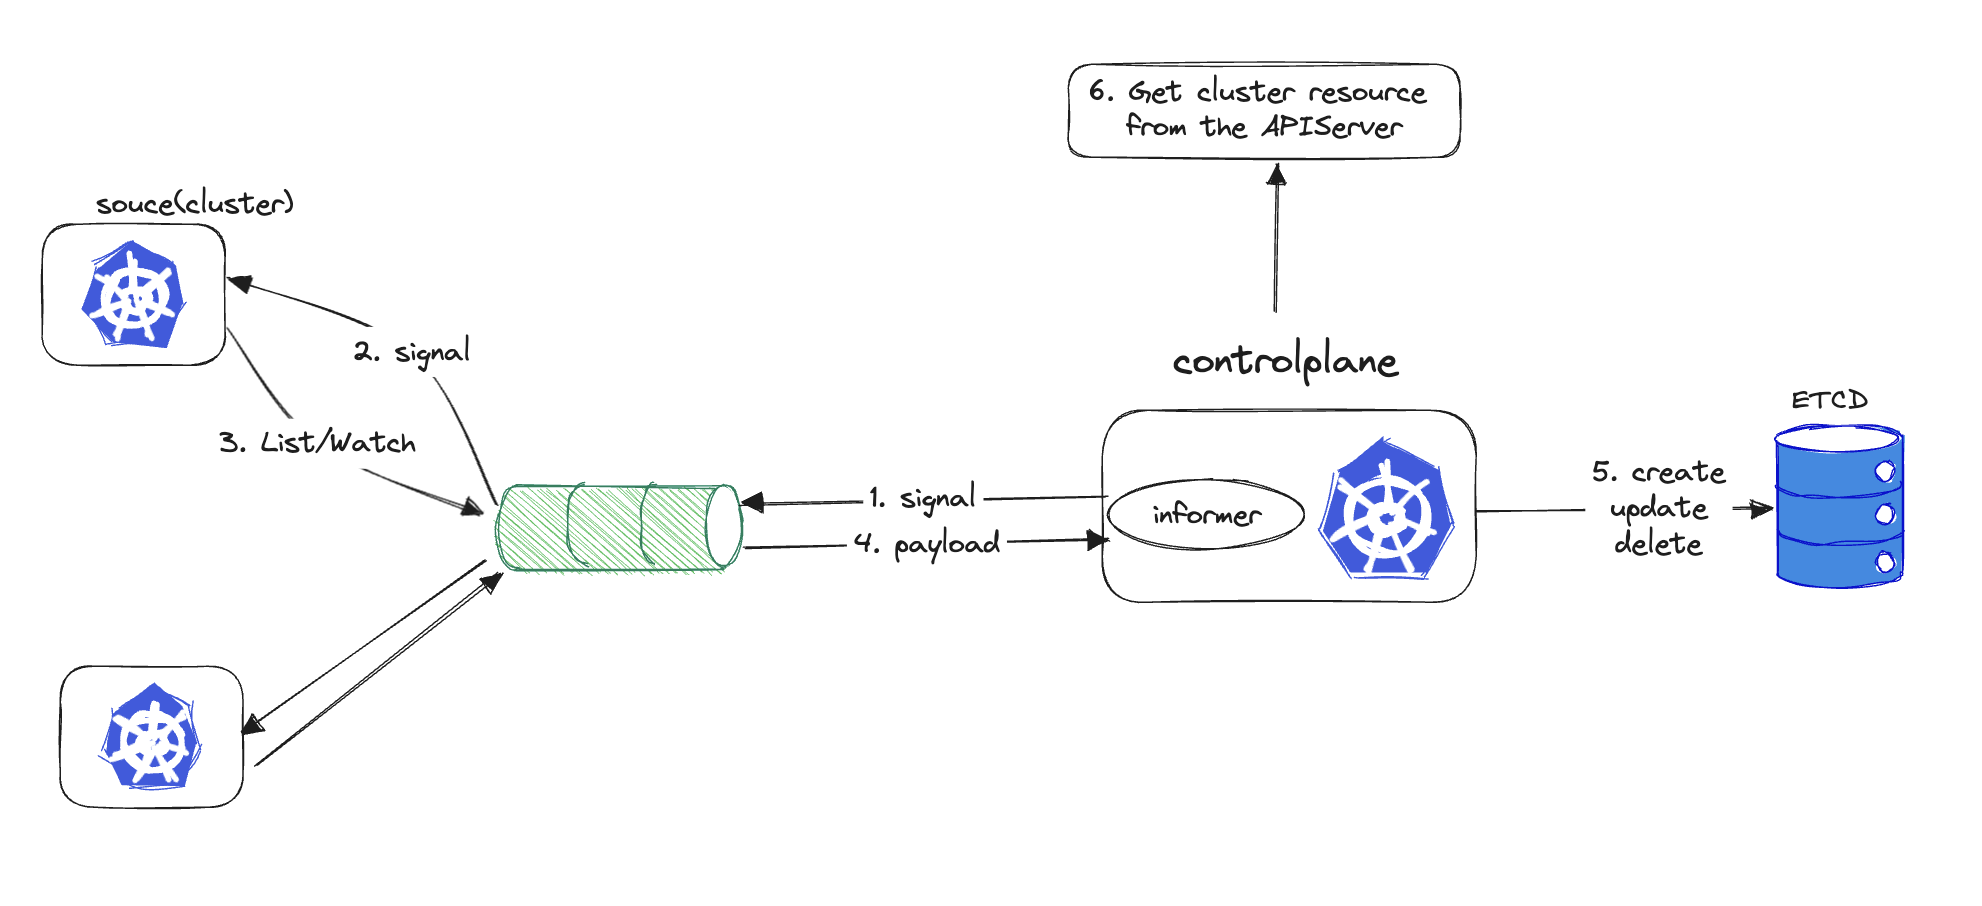
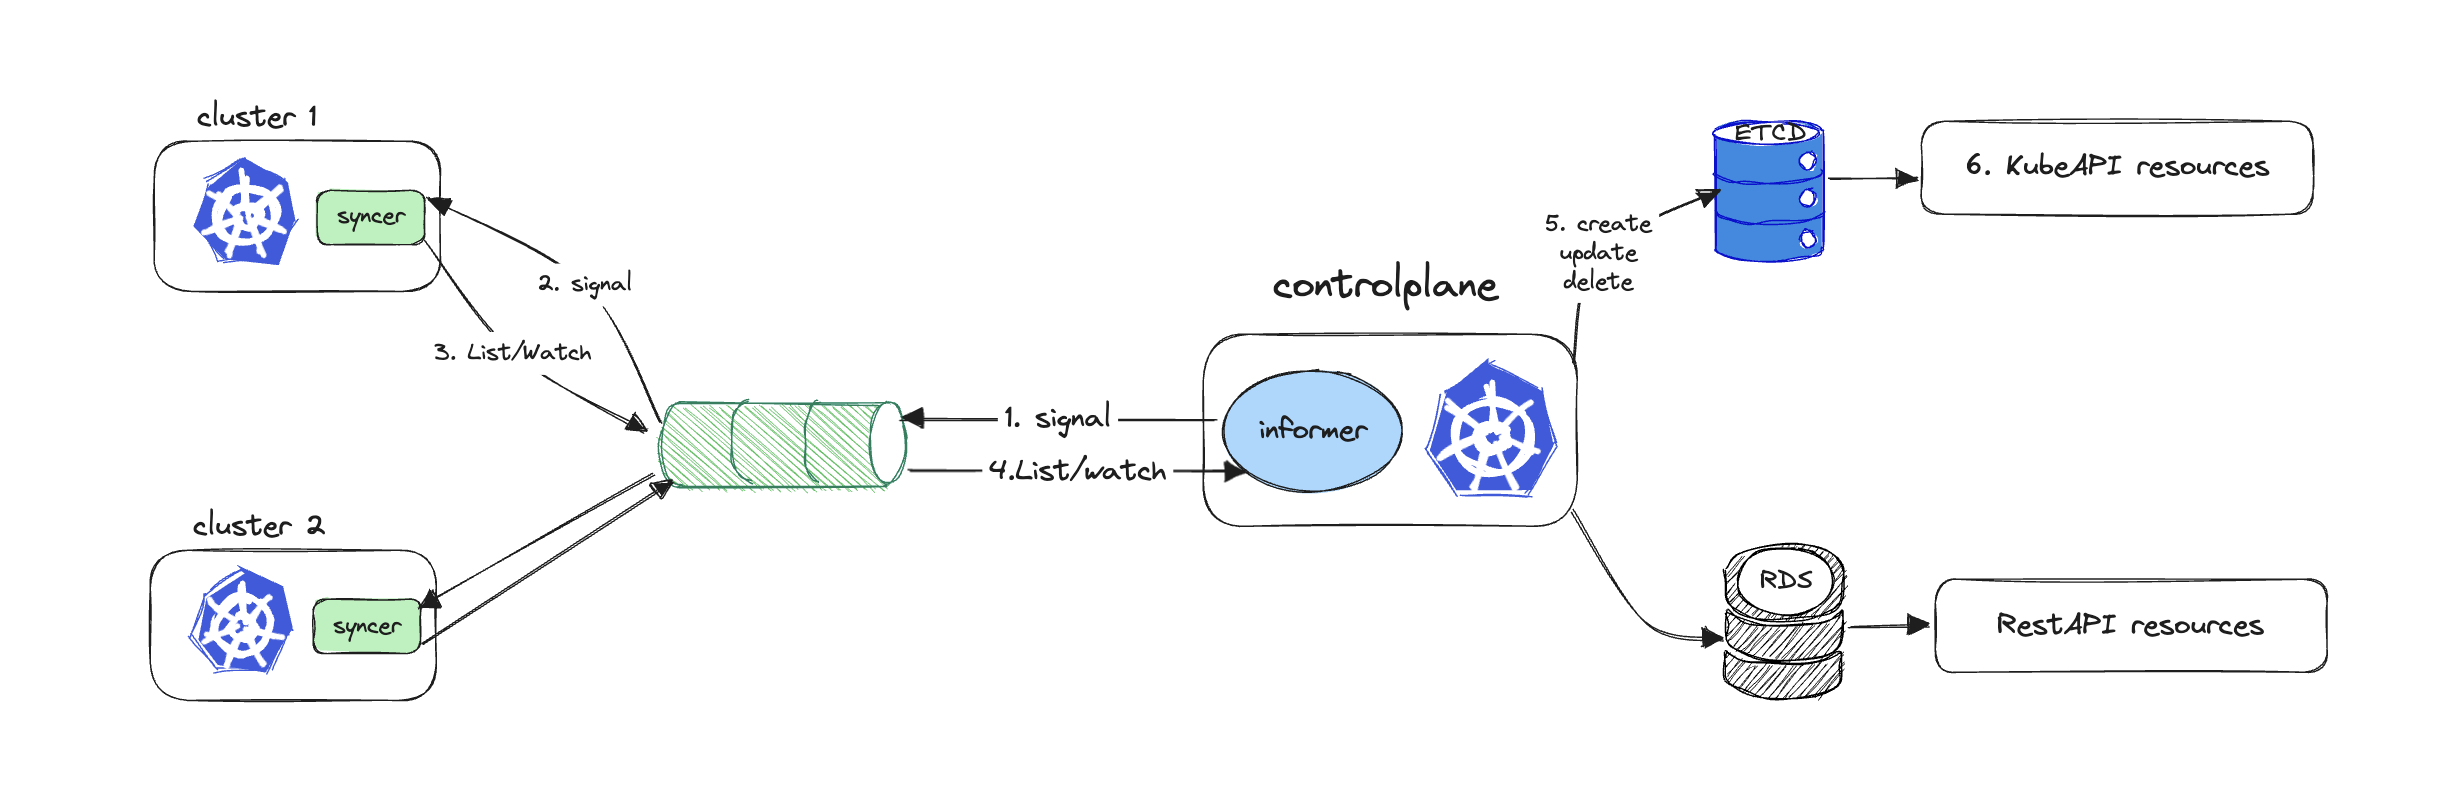
add syncer cluster name

diff --git a/pkg/config/config.go b/pkg/config/config.go
@@ -22,6 +22,7 @@ type ClientConfig struct {
 	Retained     bool
 	SignalTopic  string
 	PayloadTopic string
+	ClusterName  string
 }
 
 type TLSConfig struct {
@@ -53,6 +54,7 @@ func GetClientConfig() *ClientConfig {
 	flag.StringVarP(&clientConfig.ClientID, "client-id", "", "sender", "the client id for the MQTT")
 	flag.StringVarP(&clientConfig.SignalTopic, "signal-topic", "", "", "the topic for list/watch signal")
 	flag.StringVarP(&clientConfig.PayloadTopic, "payload-topic", "", "", "the topic for response list/watch payload")
+	flag.StringVarP(&clientConfig.ClusterName, "cluster", "", "", "the cluster where the syncer is running ")
 	QoS := flag.IntP("QoS", "q", 0,
 		"the level of reliability and assurance of message delivery between an MQTT client and broker")
 	flag.BoolVarP(&clientConfig.Retained, "retained", "", false, "retain the MQTT message or not")

diff --git a/README.MD b/README.MD
@@ -3,6 +3,7 @@
 ## Description 
 ![001](./docs/images/001.png)
 ![002](./docs/images/002.png)
+### Case 1: As a monitor to view resources from clusters
 ![003](./docs/images/003.png)
 
 
